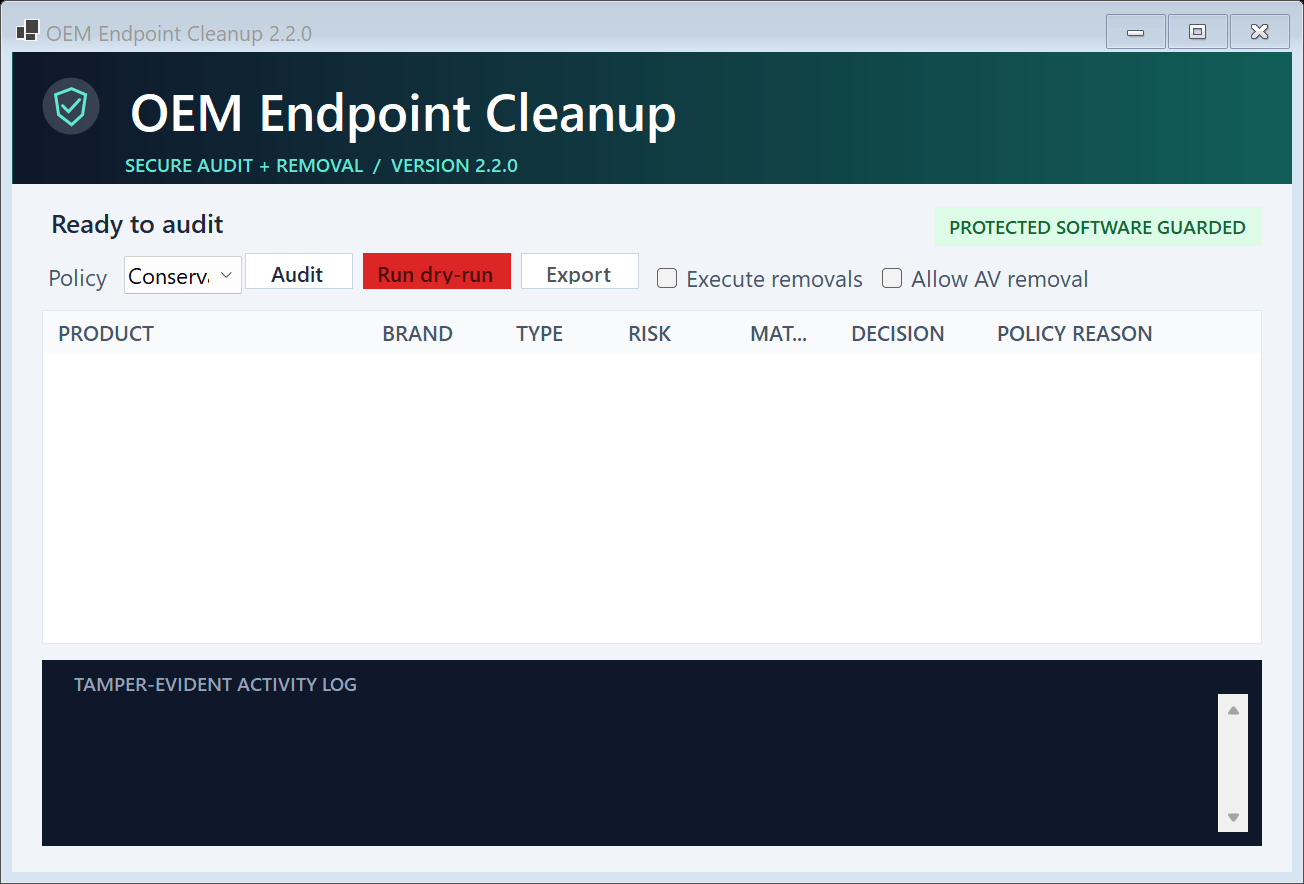
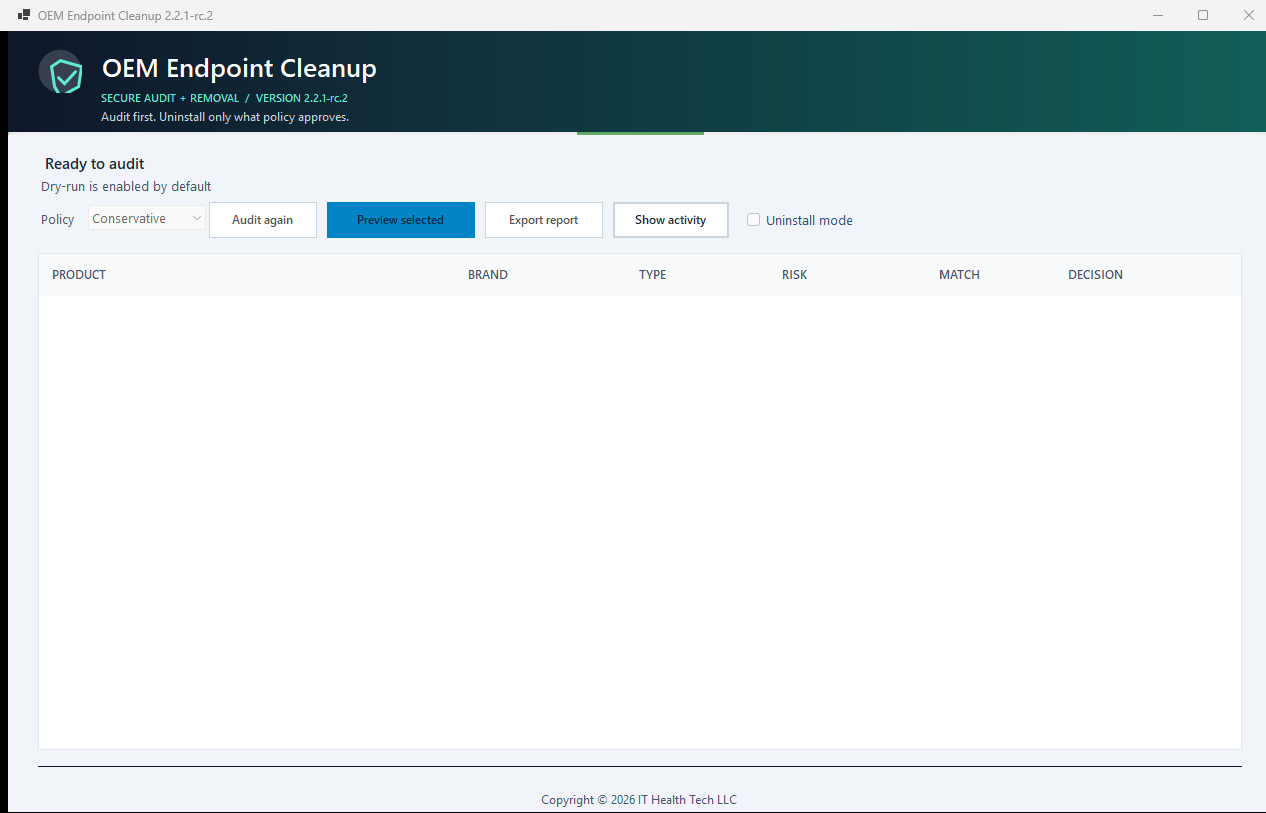
Fix AppX removal and simplify UI

diff --git a/Program.cs b/Program.cs
@@ -53,12 +53,13 @@ internal sealed class MainForm : Form
     private static readonly Color Canvas = Color.FromArgb(241, 245, 249);
     private static readonly Color Red = Color.FromArgb(220, 38, 38);
 
-    private readonly CheckBox _execute = new() { Text = "Execute removals", AutoSize = true };
-    private readonly CheckBox _allowSecurity = new() { Text = "Allow AV removal", AutoSize = true };
+    private readonly CheckBox _execute = new() { Text = "Uninstall mode", AutoSize = true };
+    private readonly CheckBox _allowSecurity = new() { Text = "Include security apps", AutoSize = true };
     private readonly ComboBox _profile = new() { DropDownStyle = ComboBoxStyle.DropDownList, Width = 118 };
     private readonly Button _scan = new() { Text = "Audit again" };
-    private readonly Button _run = new() { Text = "Run dry-run", Enabled = false };
+    private readonly Button _run = new() { Text = "Preview selected", Enabled = false };
     private readonly Button _export = new() { Text = "Export report", Enabled = false };
+    private readonly Button _toggleLog = new() { Text = "Show activity" };
     private readonly Label _summary = new() { AutoSize = true, Text = "Ready to audit", Font = new Font("Segoe UI Semibold", 11), ForeColor = Color.FromArgb(30, 41, 59) };
     private readonly Label _resultCount = new() { AutoSize = true, Text = "Dry-run is enabled by default", ForeColor = Slate, Margin = new Padding(0, 4, 0, 0) };
     private readonly DataGridView _grid = new();
@@ -79,6 +80,7 @@ internal sealed class MainForm : Form
     private string? _jsonReportPath;
     private string? _htmlReportPath;
     private bool _hasExecuted;
+    private bool _activityVisible;
 
     public MainForm()
     {
@@ -98,8 +100,9 @@ internal sealed class MainForm : Form
         _execute.Checked = !_config.DryRun;
         _allowSecurity.Checked = _config.AllowSecurityProductRemoval;
         StyleButton(_scan, Color.White, Color.FromArgb(30, 41, 59), Color.FromArgb(203, 213, 225), 108);
-        StyleButton(_run, Red, Color.White, Red, 148);
+        StyleButton(_run, Color.FromArgb(2, 132, 199), Color.White, Color.FromArgb(2, 132, 199), 148);
         StyleButton(_export, Color.White, Color.FromArgb(30, 41, 59), Color.FromArgb(203, 213, 225), 118);
+        StyleButton(_toggleLog, Color.White, Color.FromArgb(30, 41, 59), Color.FromArgb(203, 213, 225), 116);
         foreach (var check in new[] { _execute, _allowSecurity }) { check.ForeColor = Slate; check.Margin = new Padding(8, 8, 0, 0); }
 
         var header = BuildHeader();
@@ -120,7 +123,8 @@ internal sealed class MainForm : Form
             ForeColor = Slate,
             Font = new Font("Segoe UI", 8.5f)
         };
-        _contentLayout = new TableLayoutPanel { Dock = DockStyle.Fill, Padding = new Padding(30, 20, 30, 26), RowCount = 3, ColumnCount = 1, BackColor = Canvas };
+        _logRow.SizeType = SizeType.Absolute; _logRow.Height = 0;
+        _contentLayout = new TableLayoutPanel { Dock = DockStyle.Fill, Padding = new Padding(30, 18, 30, 20), RowCount = 3, ColumnCount = 1, BackColor = Canvas };
         _contentLayout.RowStyles.Add(_contentHeaderRow); _contentLayout.RowStyles.Add(_gridRow); _contentLayout.RowStyles.Add(_logRow);
         _contentLayout.Controls.Add(contentHeader, 0, 0); _contentLayout.Controls.Add(gridCard, 0, 1); _contentLayout.Controls.Add(activityCard, 0, 2);
         Controls.Add(_contentLayout); Controls.Add(_copyrightFooter); Controls.Add(header);
@@ -128,7 +132,15 @@ internal sealed class MainForm : Form
         _scan.Click += async (_, _) => await AuditAsync();
         _run.Click += async (_, _) => await RunSelectedAsync();
         _export.Click += (_, _) => ShowReportLocation();
-        _execute.CheckedChanged += (_, _) => { _run.Text = _execute.Checked ? "Execute selected" : "Run dry-run"; UpdateRunButton(); };
+        _execute.CheckedChanged += (_, _) =>
+        {
+            _run.Text = _execute.Checked ? "Uninstall selected" : "Preview selected";
+            _run.BackColor = _execute.Checked ? Red : Color.FromArgb(2, 132, 199);
+            _run.FlatAppearance.BorderColor = _run.BackColor;
+            _allowSecurity.Visible = _execute.Checked;
+            UpdateRunButton();
+        };
+        _toggleLog.Click += (_, _) => ToggleActivity();
         _allowSecurity.CheckedChanged += async (_, _) => await AuditAsync();
         _profile.SelectedIndexChanged += async (_, _) => { if (Visible) await AuditAsync(); };
         _grid.SelectionChanged += (_, _) => UpdateRunButton();
@@ -140,15 +152,15 @@ internal sealed class MainForm : Form
 
     private Control BuildHeader()
     {
-        var mark = new ShieldMark { Size = new Size(58, 58), Margin = new Padding(0, 2, 18, 0) };
-        var heading = new Label { Text = "OEM Endpoint Cleanup", Font = new Font("Segoe UI Semibold", 22), ForeColor = Color.White, AutoSize = true, Margin = new Padding(0) };
+        var mark = new ShieldMark { Size = new Size(44, 44), Margin = new Padding(0, 1, 14, 0) };
+        var heading = new Label { Text = "OEM Endpoint Cleanup", Font = new Font("Segoe UI Semibold", 19), ForeColor = Color.White, AutoSize = true, Margin = new Padding(0) };
         var version = new Label { Text = $"SECURE AUDIT + REMOVAL  /  VERSION {ProductInfo.Version}", Font = new Font("Segoe UI Semibold", 8), ForeColor = Color.FromArgb(94, 234, 212), AutoSize = true, Margin = new Padding(2, 7, 0, 0) };
-        _headerDetail = new Label { Text = "Inventory OEM software, apply policy, validate every command, and produce MSP-ready evidence.", Font = new Font("Segoe UI", 10), ForeColor = Color.FromArgb(203, 213, 225), AutoSize = true, Margin = new Padding(2, 7, 0, 0) };
+        _headerDetail = new Label { Text = "Audit first. Uninstall only what policy approves.", Font = new Font("Segoe UI", 9), ForeColor = Color.FromArgb(203, 213, 225), AutoSize = true, Margin = new Padding(2, 5, 0, 0) };
         var text = new FlowLayoutPanel { AutoSize = true, FlowDirection = FlowDirection.TopDown, WrapContents = false, BackColor = Color.Transparent, Margin = new Padding(0) };
         text.Controls.AddRange([heading, version, _headerDetail]);
-        var inner = new FlowLayoutPanel { Dock = DockStyle.Fill, FlowDirection = FlowDirection.LeftToRight, WrapContents = false, BackColor = Color.Transparent, Padding = new Padding(30, 23, 30, 18) };
+        var inner = new FlowLayoutPanel { Dock = DockStyle.Fill, FlowDirection = FlowDirection.LeftToRight, WrapContents = false, BackColor = Color.Transparent, Padding = new Padding(30, 17, 30, 12) };
         inner.Controls.AddRange([mark, text]);
-        _headerPanel = new GradientPanel { Dock = DockStyle.Top, Height = 132 }; _headerPanel.Controls.Add(inner); _headerPanel.Controls.Add(_progress); return _headerPanel;
+        _headerPanel = new GradientPanel { Dock = DockStyle.Top, Height = 104 }; _headerPanel.Controls.Add(inner); _headerPanel.Controls.Add(_progress); return _headerPanel;
     }
 
     private Control BuildContentHeader()
@@ -156,11 +168,11 @@ internal sealed class MainForm : Form
         var status = new FlowLayoutPanel { Dock = DockStyle.Fill, AutoSize = true, FlowDirection = FlowDirection.TopDown, WrapContents = false, Margin = new Padding(0) };
         status.Controls.AddRange([_summary, _resultCount]);
         var profileLabel = new Label { Text = "Policy", AutoSize = true, ForeColor = Slate, Margin = new Padding(0, 8, 6, 0) };
-        var protectedBadge = new Label { Text = "PROTECTED SOFTWARE GUARDED", AutoSize = true, BackColor = Color.FromArgb(220, 252, 231), ForeColor = Color.FromArgb(22, 101, 52), Font = new Font("Segoe UI Semibold", 8), Padding = new Padding(9, 7, 9, 7), Margin = new Padding(12, 3, 0, 0) };
         _toolbar = new FlowLayoutPanel { Dock = DockStyle.Fill, AutoSize = false, FlowDirection = FlowDirection.LeftToRight, WrapContents = true, Margin = new Padding(0), Padding = new Padding(0, 6, 0, 0) };
-        _toolbar.Controls.AddRange([profileLabel, _profile, _scan, _run, _export, _execute, _allowSecurity]);
+        _allowSecurity.Visible = _execute.Checked;
+        _toolbar.Controls.AddRange([profileLabel, _profile, _scan, _run, _export, _toggleLog, _execute, _allowSecurity]);
         var summaryRow = new TableLayoutPanel { Dock = DockStyle.Fill, ColumnCount = 2, RowCount = 1, Margin = new Padding(0) };
-        summaryRow.ColumnStyles.Add(new ColumnStyle(SizeType.Percent, 100)); summaryRow.ColumnStyles.Add(new ColumnStyle(SizeType.AutoSize)); summaryRow.Controls.Add(status, 0, 0); summaryRow.Controls.Add(protectedBadge, 1, 0);
+        summaryRow.ColumnStyles.Add(new ColumnStyle(SizeType.Percent, 100)); summaryRow.Controls.Add(status, 0, 0);
         var result = new TableLayoutPanel { Dock = DockStyle.Fill, ColumnCount = 1, RowCount = 2, Margin = new Padding(0), AutoSize = false };
         result.RowStyles.Add(new RowStyle(SizeType.Absolute, 43)); result.RowStyles.Add(new RowStyle(SizeType.Percent, 100)); result.Controls.Add(summaryRow, 0, 0); result.Controls.Add(_toolbar, 0, 1); return result;
     }
@@ -170,16 +182,17 @@ internal sealed class MainForm : Form
         if (_contentLayout is null || _toolbar is null || _headerPanel is null) return;
         var narrow = ClientSize.Width < 1080;
         var shortWindow = ClientSize.Height < 720;
-        _contentLayout.Padding = narrow ? new Padding(18, 14, 18, 18) : new Padding(30, 20, 30, 26);
-        _contentHeaderRow.Height = narrow ? 132 : 96;
+        _contentLayout.Padding = narrow ? new Padding(18, 12, 18, 16) : new Padding(30, 18, 30, 20);
+        _contentHeaderRow.Height = narrow ? 126 : 90;
         _toolbar.WrapContents = narrow;
-        _headerPanel.Height = narrow ? 116 : 132;
+        _headerPanel.Height = narrow ? 96 : 104;
         _headerDetail.Visible = !narrow;
-        _gridRow.Height = shortWindow ? 74 : 66;
-        _logRow.Height = shortWindow ? 26 : 34;
+        _gridRow.SizeType = SizeType.Percent; _gridRow.Height = 100;
+        _logRow.SizeType = SizeType.Absolute; _logRow.Height = _activityVisible ? (shortWindow ? 120 : 190) : 0;
         _grid.Columns[nameof(UiEntry.Brand)].Visible = ClientSize.Width >= 940;
         _grid.Columns[nameof(UiEntry.Type)].Visible = ClientSize.Width >= 900;
         _grid.Columns[nameof(UiEntry.Confidence)].Visible = ClientSize.Width >= 1120;
+        _grid.Columns[nameof(UiEntry.Reason)].Visible = ClientSize.Width >= 1440;
         _contentLayout.PerformLayout();
     }
 
@@ -300,6 +313,13 @@ internal sealed class MainForm : Form
     private static string ReportDirectory(CleanupPolicy p) => string.IsNullOrWhiteSpace(p.ReportDirectory) ? PolicyConfiguration.DefaultReportDirectory() : p.ReportDirectory;
     private void ShowReportLocation() => MessageBox.Show($"JSON:{Environment.NewLine}{_jsonReportPath}{Environment.NewLine}{Environment.NewLine}HTML:{Environment.NewLine}{_htmlReportPath}", "Audit reports", MessageBoxButtons.OK, MessageBoxIcon.Information);
     private void Log(string message) => _activity.AppendText($"{DateTime.Now:HH:mm:ss}  {message}{Environment.NewLine}");
+
+    private void ToggleActivity()
+    {
+        _activityVisible = !_activityVisible;
+        _toggleLog.Text = _activityVisible ? "Hide activity" : "Show activity";
+        ApplyResponsiveLayout();
+    }
 
     private void SetBusy(bool busy) { UseWaitCursor = busy; _progress.Visible = busy; _scan.Enabled = !busy; _profile.Enabled = !busy; _execute.Enabled = !busy; _allowSecurity.Enabled = !busy; if (busy) _run.Enabled = false; else UpdateRunButton(); }
     private void UpdateRunButton() { var has = _grid.SelectedRows.Cast<DataGridViewRow>().Any(r => r.DataBoundItem is UiEntry x && x.Plan.Decision.Action == DecisionAction.Remove); _run.Enabled = !UseWaitCursor && !_hasExecuted && has; }

diff --git a/Core/SecurityExecution.cs b/Core/SecurityExecution.cs
@@ -66,7 +66,8 @@ public static class CommandValidator
         var package = item.PackageFullName;
         if (string.IsNullOrWhiteSpace(package) || !Regex.IsMatch(package, @"^[A-Za-z0-9._-]+$")) return new(false, "AppX package full name is malformed");
         var powerShell = Path.Combine(Environment.SystemDirectory, "WindowsPowerShell", "v1.0", "powershell.exe");
-        return new(true, "Validated fixed AppX handler", new(powerShell, ["-NoLogo", "-NoProfile", "-NonInteractive", "-Command", "Remove-AppxPackage -AllUsers -Package $args[0] -ErrorAction Stop", package], false, "Fixed AppX handler", timeoutSeconds));
+        const string script = "& { param([string]$package) $ErrorActionPreference='Stop'; $matches=@(Get-AppxPackage -AllUsers | Where-Object PackageFullName -EQ $package); foreach($pkg in $matches){ $users=@($pkg.PackageUserInformation | Where-Object InstallState -EQ 'Installed'); foreach($user in $users){ Remove-AppxPackage -Package $pkg.PackageFullName -User $user.UserSecurityId -ErrorAction Stop } } } @args";
+        return new(true, "Validated fixed per-user AppX handler", new(powerShell, ["-NoLogo", "-NoProfile", "-NonInteractive", "-Command", script, package], false, "Fixed AppX handler", timeoutSeconds));
     }
 
     private static ValidationResult ValidateWinget(InventoryItem item, int timeoutSeconds)
@@ -77,15 +78,25 @@ public static class CommandValidator
     }
 }
 
-public interface IProcessRunner { Task<int> RunAsync(ValidatedCommand command, CancellationToken cancellationToken = default); }
+public sealed record ProcessRunResult(int ExitCode, string? DiagnosticOutput = null);
+public interface IProcessRunner { Task<ProcessRunResult> RunAsync(ValidatedCommand command, CancellationToken cancellationToken = default); }
 public sealed class ProcessTimeoutException(string message) : TimeoutException(message);
 public sealed class ProcessRunner : IProcessRunner
 {
-    public async Task<int> RunAsync(ValidatedCommand command, CancellationToken cancellationToken = default)
+    public async Task<ProcessRunResult> RunAsync(ValidatedCommand command, CancellationToken cancellationToken = default)
     {
-        var start = new ProcessStartInfo(command.FileName) { UseShellExecute = false, CreateNoWindow = !command.Interactive };
+        var captureOutput = !command.Interactive;
+        var start = new ProcessStartInfo(command.FileName)
+        {
+            UseShellExecute = false,
+            CreateNoWindow = captureOutput,
+            RedirectStandardOutput = captureOutput,
+            RedirectStandardError = captureOutput
+        };
         foreach (var argument in command.Arguments) start.ArgumentList.Add(argument);
         using var process = Process.Start(start) ?? throw new InvalidOperationException("Unable to start validated uninstaller.");
+        var outputTask = captureOutput ? process.StandardOutput.ReadToEndAsync(cancellationToken) : Task.FromResult(string.Empty);
+        var errorTask = captureOutput ? process.StandardError.ReadToEndAsync(cancellationToken) : Task.FromResult(string.Empty);
         using var timeout = CancellationTokenSource.CreateLinkedTokenSource(cancellationToken);
         timeout.CancelAfter(TimeSpan.FromSeconds(command.TimeoutSeconds));
         try { await process.WaitForExitAsync(timeout.Token); }
@@ -94,7 +105,9 @@ public sealed class ProcessRunner : IProcessRunner
             try { process.Kill(true); await process.WaitForExitAsync(CancellationToken.None); } catch { }
             throw new ProcessTimeoutException($"Validated uninstaller exceeded the {command.TimeoutSeconds}-second timeout.");
         }
-        return process.ExitCode;
+        var diagnostic = string.Join(Environment.NewLine, new[] { await errorTask, await outputTask }.Where(x => !string.IsNullOrWhiteSpace(x))).Trim();
+        if (diagnostic.Length > 1200) diagnostic = diagnostic[..1200] + "…";
+        return new(process.ExitCode, string.IsNullOrWhiteSpace(diagnostic) ? null : diagnostic);
     }
 }
 

diff --git a/tests/PreloadedAVRemover.Tests/EngineAuditReportTests.cs b/tests/PreloadedAVRemover.Tests/EngineAuditReportTests.cs
@@ -41,6 +41,17 @@ public sealed class EngineAuditReportTests
     }
 
     [Fact]
+    public async Task FailedUninstaller_DiagnosticOutputIsReported()
+    {
+        var provider = new MockInventoryProvider { Device = TestData.Device(admin: true), Items = [TestData.Msi()] };
+        var runner = new FakeRunner { ExitCode = 1, DiagnosticOutput = "AppX deployment failed with 0x80073CFA" };
+        var engine = new CleanupEngine(provider, new RemovalCatalog([TestData.Entry()]), runner);
+        var result = Assert.Single(await engine.ExecuteAsync(engine.Rescan(new CleanupPolicy()), new CleanupPolicy { DryRun = false }, "id", Path.Combine(TestData.TempDirectory(), "audit.jsonl")));
+        Assert.Equal(ExecutionOutcome.Failed, result.Outcome);
+        Assert.Contains("0x80073CFA", result.Message, StringComparison.Ordinal);
+    }
+
+    [Fact]
     public async Task ProcessTimeout_IsReportedDistinctly()
     {
         var provider = new MockInventoryProvider { Items = [TestData.Msi()] };

diff --git a/Core/CleanupEngine.cs b/Core/CleanupEngine.cs
@@ -58,10 +58,14 @@ public sealed class CleanupEngine
                     try
                     {
                         log.Write(executionId, "Command", "Executing validated command", new { validation.Command.FileName, validation.Command.Arguments, validation.Command.Source, validation.Command.TimeoutSeconds });
-                        var exitCode = await _runner.RunAsync(validation.Command, cancellationToken);
+                        var processResult = await _runner.RunAsync(validation.Command, cancellationToken);
+                        var exitCode = processResult.ExitCode;
                         var reboot = exitCode is 3010 or 1641 || item.Catalog.RebootRequired;
                         var outcome = exitCode is 0 or 3010 or 1641 ? (reboot ? ExecutionOutcome.RebootRequired : ExecutionOutcome.Removed) : ExecutionOutcome.Failed;
-                        result = new(item, outcome, exitCode, outcome == ExecutionOutcome.Failed ? "Uninstaller returned a failure exit code" : "Validated uninstaller completed", reboot, DateTimeOffset.UtcNow);
+                        var message = outcome == ExecutionOutcome.Failed
+                            ? "Uninstaller returned a failure exit code" + (string.IsNullOrWhiteSpace(processResult.DiagnosticOutput) ? string.Empty : $": {processResult.DiagnosticOutput}")
+                            : "Validated uninstaller completed";
+                        result = new(item, outcome, exitCode, message, reboot, DateTimeOffset.UtcNow);
                     }
                     catch (ProcessTimeoutException ex) { result = new(item, ExecutionOutcome.TimedOut, null, ex.Message, false, DateTimeOffset.UtcNow); }
                     catch (Exception ex) { result = new(item, ExecutionOutcome.Failed, null, ex.Message, false, DateTimeOffset.UtcNow); }

diff --git a/tests/PreloadedAVRemover.Tests/CommandValidationTests.cs b/tests/PreloadedAVRemover.Tests/CommandValidationTests.cs
@@ -66,7 +66,12 @@ public sealed class CommandValidationTests
     {
         var good = new InventoryItem("app", "Clipchamp", "1", "Microsoft", PackageType.Appx, "AppX", PackageFullName: "Clipchamp.Clipchamp_1.2.3_x64__abc");
         var bad = good with { PackageFullName = "bad'; Remove-Item C:\\; '" };
-        Assert.True(CommandValidator.Validate(TestData.Plan(good, TestData.Entry(PackageType.Appx))).IsValid);
+        var result = CommandValidator.Validate(TestData.Plan(good, TestData.Entry(PackageType.Appx)));
+        Assert.True(result.IsValid);
+        Assert.Contains("-User", result.Command!.Arguments[^2], StringComparison.Ordinal);
+        Assert.Contains("@args", result.Command.Arguments[^2], StringComparison.Ordinal);
+        Assert.Equal(good.PackageFullName, result.Command.Arguments[^1]);
+        Assert.DoesNotContain(good.PackageFullName!, result.Command.Arguments[^2], StringComparison.Ordinal);
         Assert.False(CommandValidator.Validate(TestData.Plan(bad, TestData.Entry(PackageType.Appx))).IsValid);
     }
 

diff --git a/tests/PreloadedAVRemover.Tests/TestDoubles.cs b/tests/PreloadedAVRemover.Tests/TestDoubles.cs
@@ -13,10 +13,11 @@ internal sealed class MockInventoryProvider : IInventoryProvider
 internal sealed class FakeRunner : IProcessRunner
 {
     public int ExitCode { get; set; }
+    public string? DiagnosticOutput { get; set; }
     public Exception? Exception { get; set; }
     public int Calls { get; private set; }
     public ValidatedCommand? LastCommand { get; private set; }
-    public Task<int> RunAsync(ValidatedCommand command, CancellationToken cancellationToken = default) { Calls++; LastCommand = command; return Exception is null ? Task.FromResult(ExitCode) : Task.FromException<int>(Exception); }
+    public Task<ProcessRunResult> RunAsync(ValidatedCommand command, CancellationToken cancellationToken = default) { Calls++; LastCommand = command; return Exception is null ? Task.FromResult(new ProcessRunResult(ExitCode, DiagnosticOutput)) : Task.FromException<ProcessRunResult>(Exception); }
 }
 
 internal static class TestData

diff --git a/README.md b/README.md
@@ -4,7 +4,7 @@ A security-focused Windows utility for inventorying, auditing, and optionally re
 
 ![Platform](https://img.shields.io/badge/platform-Windows%20x64-2563eb)
 ![Framework](https://img.shields.io/badge/.NET-8.0-512bd4)
-![Version](https://img.shields.io/badge/version-2.2.1--rc.1-0f766e)
+![Version](https://img.shields.io/badge/version-2.2.1--rc.2-0f766e)
 ![License](https://img.shields.io/badge/license-GPL--3.0-blue)
 
 ## Application preview
@@ -31,11 +31,11 @@ Hardware-control suites, hotkeys, recovery tools, BIOS/firmware dependencies, dr
 1. Start `PreloadedAVRemover.exe` and approve UAC.
 2. Review the automatic audit. JSON and HTML reports are written immediately.
 3. Select a policy profile and one or more rows whose decision is **Remove**.
-4. Leave **Execute removals** unchecked to validate the plan without changing the device.
-5. To make changes, enable **Execute removals**, select the intended rows, and approve the confirmation dialog.
+4. Leave **Uninstall mode** unchecked and choose **Preview selected** to validate the plan without changing the device.
+5. To make changes, enable **Uninstall mode**, choose **Uninstall selected**, and approve the confirmation dialog.
 6. Review the post-execution inventory, results, exit codes, and reboot indicators in the exported report.
 
-Endpoint protection remains audit-only unless **Allow AV removal** is explicitly enabled. Enabling it does not override allowlists, protected-software safeguards, manual-review catalog entries, or command validation.
+Endpoint protection remains audit-only unless **Include security apps** is explicitly enabled in uninstall mode. Enabling it does not override allowlists, protected-software safeguards, manual-review catalog entries, or command validation.
 
 ## Policy profiles
 
@@ -94,7 +94,8 @@ Reports include hostname, user context, local-admin status, Windows version, man
 - Environment-expanded and network-hosted registry executable paths are rejected.
 - Shells and script hosts from registry commands are rejected.
 - MSI removal is rebuilt as `msiexec /x {ProductCode} /qn /norestart` from a validated GUID.
-- AppX and winget use fixed handlers with validated package identifiers.
+- AppX and winget use fixed handlers with validated package identifiers. AppX removal targets each registered user explicitly and passes the package name as a separate argument.
+- Captured uninstaller output is included in failed results so reports show the vendor or Windows deployment error instead of only an exit code.
 - Services, scheduled tasks, and registry artifacts are detected and audited but fail closed unless a dedicated catalog handler is implemented.
 - No arbitrary file or registry deletion is performed.
 - Non-admin removal attempts fail without starting a process.

diff --git a/TEST_REPORT.md b/TEST_REPORT.md
@@ -1,12 +1,12 @@
 # Test report — OEM Endpoint Cleanup 2.2.1-rc.2
 
-Date: 2026-07-20
+Date: 2026-07-22
 Target: Windows x64, .NET 8
 Command: `dotnet test .\tests\PreloadedAVRemover.Tests\PreloadedAVRemover.Tests.csproj -c Release --no-restore`
 
 ## Result
 
-- Passed: 64
+- Passed: 65
 - Failed: 0
 - Skipped: 0
 - Build warnings: 0 after analyzer cleanup
@@ -31,6 +31,7 @@ Command: `dotnet test .\tests\PreloadedAVRemover.Tests\PreloadedAVRemover.Tests.
 - Malformed, relative, missing, control-character, shell-host, and script-host uninstall commands fail closed.
 - Environment-expanded registry paths are rejected and command timeouts are clamped to 30–3600 seconds.
 - Valid and malicious AppX package identifiers.
+- AppX package arguments are passed separately through a fixed script-block parameter, and registered users are removed explicitly.
 - Unavailable winget behavior.
 - Service, scheduled-task, and registry backends fail closed without dedicated handlers.
 - Mock inventory matching for every package type.
@@ -38,6 +39,7 @@ Command: `dotnet test .\tests\PreloadedAVRemover.Tests\PreloadedAVRemover.Tests.
 - Non-admin removal fails without invoking the process runner.
 - Success, failure (`1603`), reboot-required (`3010`), and initiated-reboot (`1641`) exit paths.
 - Process timeouts are captured as a distinct auditable outcome.
+- Failed uninstallers preserve bounded diagnostic output in the execution result and report.
 - Empty inventory/missing-source behavior.
 - Hash-chain linkage, hostname context, and whole-file SHA-256 generation.
 - JSON report schema 2.2, HTML escaping, match evidence, and complete device/security context.